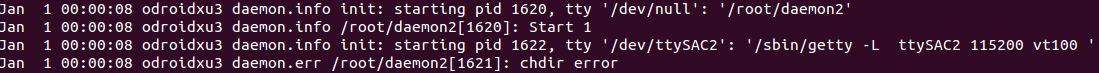
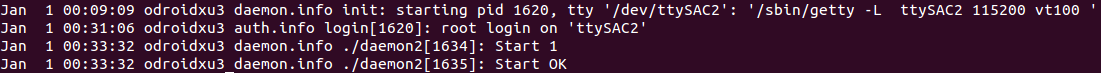
fin des daemons

diff --git a/Rapport/Ressources/Chapters/9_InitLinux.tex b/Rapport/Ressources/Chapters/9_InitLinux.tex
@@ -1,6 +1,15 @@
 \chapter{init Linux}
 \section{Script de démarrage}
 \subsection{Services}
+
+Au démarrage, le système exécute les scripts situés dans \textbf{/etc/init.d/} :
+
+\begin{center} 
+\hspace{15cm}
+\includegraphics[width=16cm]{init_d.png}
+\end{center}
+\vspace{0.5cm}
+
 \begin{itemize}
 	\item sshd
 	\item httpd
@@ -9,6 +18,8 @@
 
 \section{Démons}
 La liste des démons qui doivent être démarrés se trouve dans le fichier \textbf{/etc/inittab} qui décrit également quand et comment ils doivent être démarrés. Par exemple au démarrage du système, à l'arrêt du système, ...\\
+
+\subsection{Contrôle des droits de daemon2}
 
 Généralement les démons sont démarrés en mode \textbf{root}. Mais dans le programme du démon, on peut utiliser les appels systèmes \textbf{umask()}, \textbf{setsid()}, \textbf{setegid()} et \textbf{seteuid()} pour changer les droits du processus (démon) afin qu'il n'ait plus les droits \textbf{root} pour éviter qu'un attaquant puisse se servir du démon pour faire des choses en tant que \textbf{root}. \\
 
@@ -25,17 +36,129 @@ Pour tester les droits, la première fois on a créé ce répertoire en tant qu'
 \end{center}
 \vspace{0.5cm}
 
-et la commande \textbf{ps -ale | grep daemon}
+et les commandes \textbf{ps -ale | grep daemon}, \textbf{plsof | grep daemon} et \textbf{ls -lisa /home/test/daemon}
 
 \begin{center} 
 \hspace{15cm}
-\includegraphics[width=16cm]{daemon_ps_1.png}
+\includegraphics[width=16cm]{daemon_ps_lsof_txt_1.png}
 \end{center}
 \vspace{0.5cm}
 
-Cela nous a permis de constater que le démon n'a pas pu se lancer correctement (il n'est pas dans les processus en cours d'exécution) et que c'est parce qu'il n'a pas pu accéder au répertoire souhaité (\textbf{chdir error} indiqué dans le fichier \textbf{messages}, et si on regarde le code du démon, c'est qu'il n'a pas réussi à accéder au répertoire \textbf{/home/test/daemon}), probablement parce qu'il n'a pas les droits nécessaires.\\
+Cela nous a permis de constater que le démon n'a pas pu se lancer correctement (il n'est pas dans les processus en cours d'exécution) et que c'est parce qu'il n'a pas pu créer le fichier \textbf{t.txt} dans le répertoire. Le fichier \textbf{messages} nous indique aucune erreur dans le lancement du démon, et si on regarde le code du démon, c'est qu'il a réussi à accéder au répertoire \textbf{/home/test/daemon} (avec la commande \textbf{chdir}) mais qu'il n'a pas pu créer et ouvrir le fichier \textbf{t.txt}, probablement parce qu'il n'a pas les droits nécessaires.\\
 
-Ensuite on a supprimé ce répertoire \textbf{/home/test/daemon/} et on l'a recréé mais en tant qu'utilisateur \textbf{test}, et on a relancé le démon.
+Ensuite on a supprimé ce répertoire \textbf{/home/test/daemon/} et on l'a recréé mais en tant qu'utilisateur \textbf{test}, et on a relancé le démon.\\
+
+Cette fois-ci le programme redémarre et s'exécute normalement, comme on peut le voir dans les processus :
+
+\begin{center} 
+\hspace{15cm}
+\includegraphics[width=16cm]{daemon_ps_2.png}
+\end{center}
+\vspace{0.5cm}
+
+les fichiers ouverts :
+
+\begin{center} 
+\hspace{15cm}
+\includegraphics[width=16cm]{daemon_lsof_2.png}
+\end{center}
+\vspace{0.5cm}
+
+le fichiers \textbf{/var/log/mesages} :
+
+\begin{center} 
+\hspace{15cm}
+\includegraphics[width=16cm]{daemon_messages_2.png}
+\end{center}
+\vspace{0.5cm}
+
+ainsi que le fichier \textbf{t.txt} dans lequel il écrit :
+
+\begin{center} 
+\hspace{15cm}
+\includegraphics[width=7cm]{daemon_txt_2.png}
+\end{center}
+\vspace{0.5cm}
+
+Cela nous a permis de savoir que le changement de droits du démon (avec \textbf{umask()}, \textbf{setsid()}, \textbf{setegid()} et \textbf{seteuid()}) fonctionne correctement.
+
+\subsection{Différence entre sysinit et respawn dans inittab}
+
+Dans le fichier \textbf{/etc/inittab} on indique de quelle manière on veut démarrer un démon. Avec \textbf{sysinit} le démon est démarré une seule fois au lors du boot du système. Avec \textbf{respawn} il sera redémarré automatiquement s'il est arrêté.\\
+
+Pour tester la différence entre ces deux modes, on a modifié le fichier \textbf{/etc/inittab} pour y ajouter le démarrage de daemon2, une fois avec \textbf{sysinit} et la seconde avec \textbf{respawn}.\\
+
+\begin{center} 
+\hspace{15cm}
+\includegraphics[width=5cm]{daemon_sysinit_inittab.png}
+\end{center}
+\vspace{0.5cm}
+
+ou :
+
+\begin{center} 
+\hspace{15cm}
+\includegraphics[width=5cm]{daemon_respawn_inittab.png}
+\end{center}
+\vspace{0.5cm}
+
+Ensuite on redémarre le système avec \textbf{reboot}. Pour \textbf{sysinit} cela donne :
+
+\begin{center} 
+\hspace{15cm}
+\includegraphics[width=16cm]{daemon_sysinit_ps.png}
+\end{center}
+\vspace{0.5cm}
+
+\begin{center} 
+\hspace{15cm}
+\includegraphics[width=16cm]{daemon_sysinit_lsof.png}
+\end{center}
+\vspace{0.5cm}
+
+\begin{center} 
+\hspace{15cm}
+\includegraphics[width=16cm]{daemon_sysinit_messages.png}
+\end{center}
+\vspace{0.5cm}
+
+\begin{center} 
+\hspace{15cm}
+\includegraphics[width=5cm]{daemon_sysinit_txt.png}
+\end{center}
+\vspace{0.5cm}
+
+On voit donc qu'avec cette technique le démon à démarré et s'est exécuté normalement en même temps que le démarrage du système.
+
+Et pour \textbf{respawn} cela donne :
+
+\begin{center} 
+\hspace{15cm}
+\includegraphics[width=16cm]{daemon_respawn_ps.png}
+\end{center}
+\vspace{0.5cm}
+
+\begin{center} 
+\hspace{15cm}
+\includegraphics[width=16cm]{daemon_respawn_lsof.png}
+\end{center}
+\vspace{0.5cm}
+
+\begin{center} 
+\hspace{15cm}
+\includegraphics[width=16cm]{daemon_respawn_messages.png}
+\end{center}
+\vspace{0.5cm}
+
+\begin{center} 
+\hspace{15cm}
+\includegraphics[width=5cm]{daemon_respawn_txt.png}
+\end{center}
+\vspace{0.5cm}
+
+On voit cette fois qu'il y a plusieurs processus daemon2 qui sont démarrés. Cela est dû au fait que le programme de \textbf{daemon2.c} fait un \textbf{fork()} et que le processus enfant prend le relais alors que le processus parent se termine. Comme le processus parent se termine, le système détecte que le \textbf{daemon2} est terminé et le relance aussitôt puisqu'il est configuré en \textbf{respawn} dans \textbf{inittab}. La nouvelle instance démarre, fait un \textbf{fork()} et etc. le cycle reprend et on obtient une multitude de processus \textbf{daemon2} qui sont lancés...\\
+
+On voit aussi dans le fichier \textbf{t.txt} qu'il ne contient pas des valeurs cohérentes (l'incrément passe d'un coup de 0 à 36). Cela est dû au fait que tous ces processus essaient de d'accéder au fichier de manière concurrente, et y écrivent chacun leur tour avec leur propre valeur d'incrément.
 
 \section{init kernel}
 Avant start\_kernel, le processus init démarre les démons nécessaires. 

diff --git a/Rapport/__Rapport.tex b/Rapport/__Rapport.tex
@@ -1,4 +1,4 @@
-e\input{Ressources/_parametres}
+\input{Ressources/_parametres}
 \input{Ressources/_define}
 
 \begin{document}
